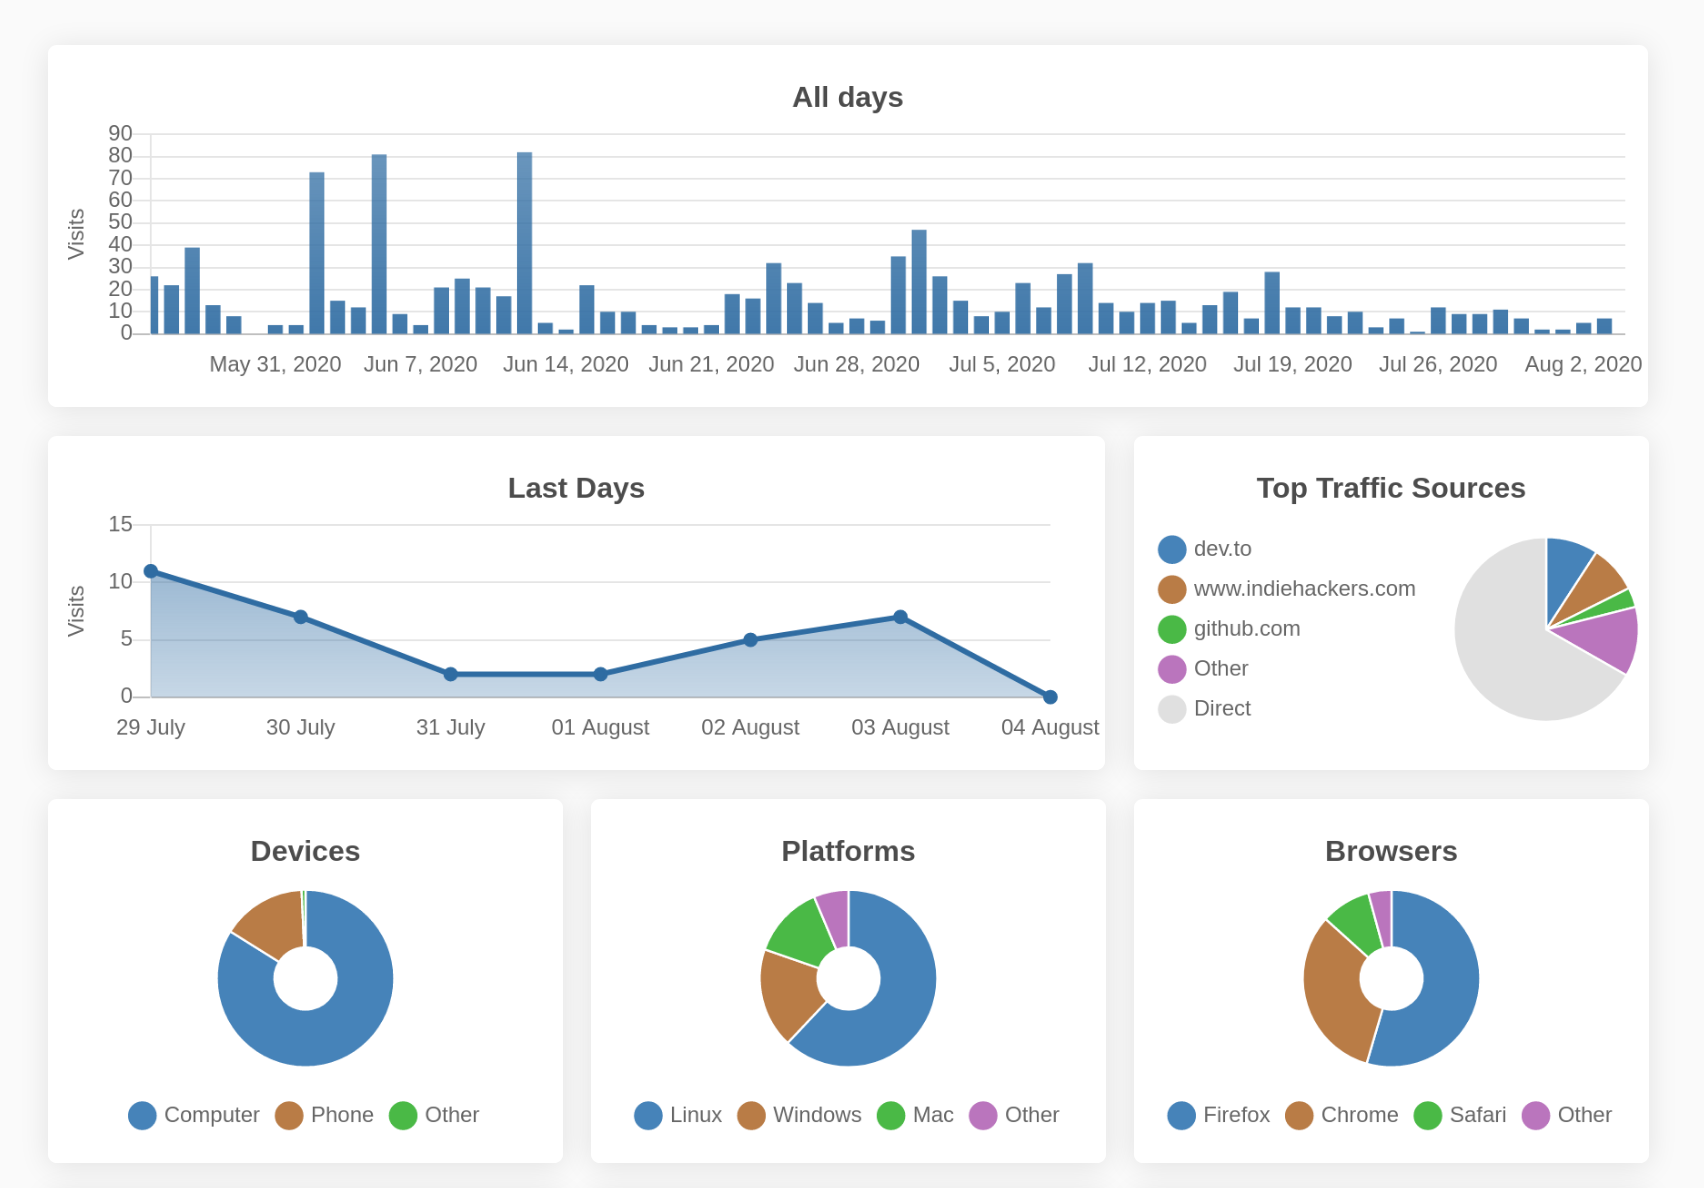
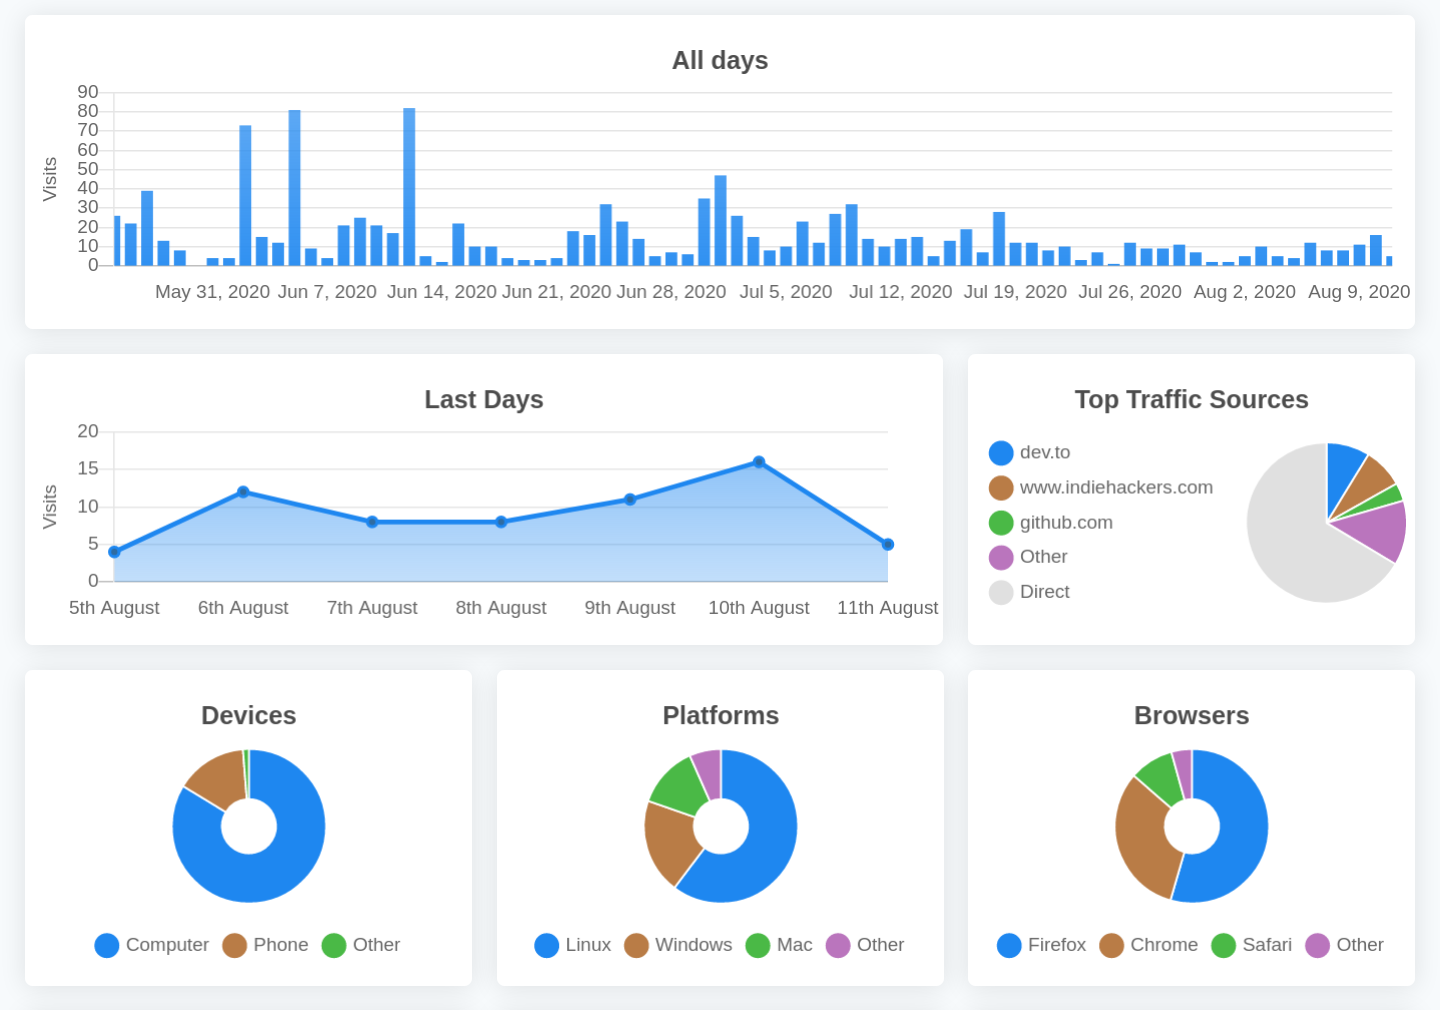
More smaller adaptations

diff --git a/static/index.html b/static/index.html
@@ -252,17 +252,17 @@ body {
         <div class="hr-1 h-1 mx-auto gradient opacity-25 my-0 py-0 rounded-t" style="width: 16em;"></div>
     </div>
     
-    <div class="max-w-md mx-auto flex flex-wrap">
+    <div class="max-w-screen-sm mx-auto flex flex-wrap">
+
+        <div class="w-1/2">
+            <canvas class="tile" id="last_days_chart" height=170 />
+        </div>
         
-        <p class="w-full pb-3">
+        <p class="w-1/2 pl-5">
           All metrics are based on visits, which is a browser season at a given
           day. For example: if the same user visited your site yesteday and today, that is
           counted as two visits.
         </p>
-
-        <div class="w-full">
-            <canvas class="tile" id="last_days_chart" height=200 />
-        </div>
     </div>
 
 </section>
@@ -279,7 +279,7 @@ body {
     
     <div class="max-w-screen-sm mx-auto flex flex-wrap">
         
-        <p class="w-1/2 pr-2">
+        <p class="w-1/2 pr-5">
             You can see which other websites link to you and how many users got to
             your site via external links. This can be viewed as an overview and
             in detail.
@@ -311,7 +311,7 @@ body {
                </div>
         </div>
         
-        <p class="w-1/2 pl-2">
+        <p class="w-1/2 pl-5">
             There's a map and a list view with the geographical location of visitors.
         </p>
     </div>

diff --git a/static/script.js b/static/script.js
@@ -625,7 +625,7 @@ function drawLastDays(elemId, date_keys, date_vals) {
     new Chart(document.getElementById(elemId), {
         type: 'line',
         data: {
-            labels: date_keys.slice(-1 * num).map(x => moment(x).format("DD MMMM")),
+            labels: date_keys.slice(-1 * num).map(x => moment(x).format("Do MMMM")),
             datasets: [{
                 data: date_vals.slice(-1 * num),
                 label: 'Visits',
